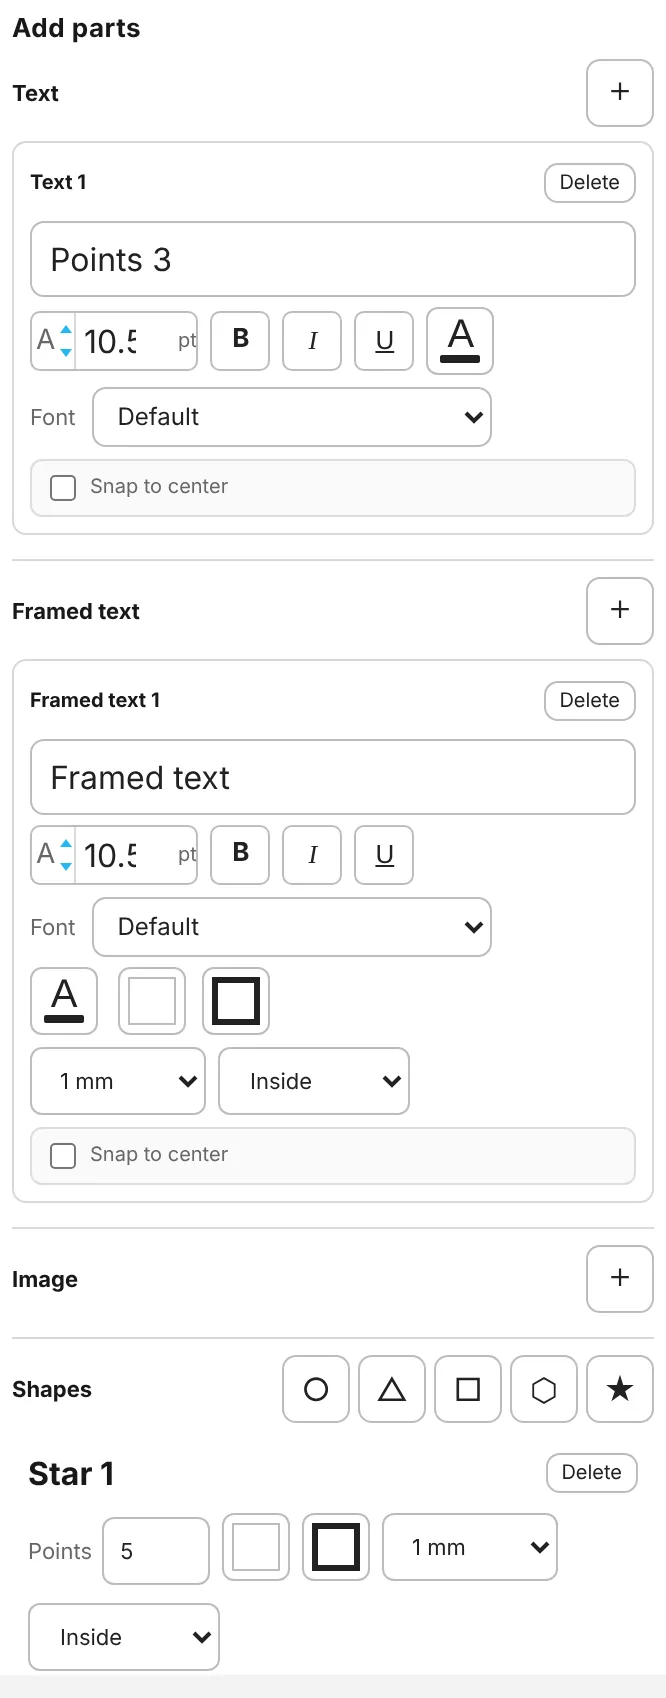
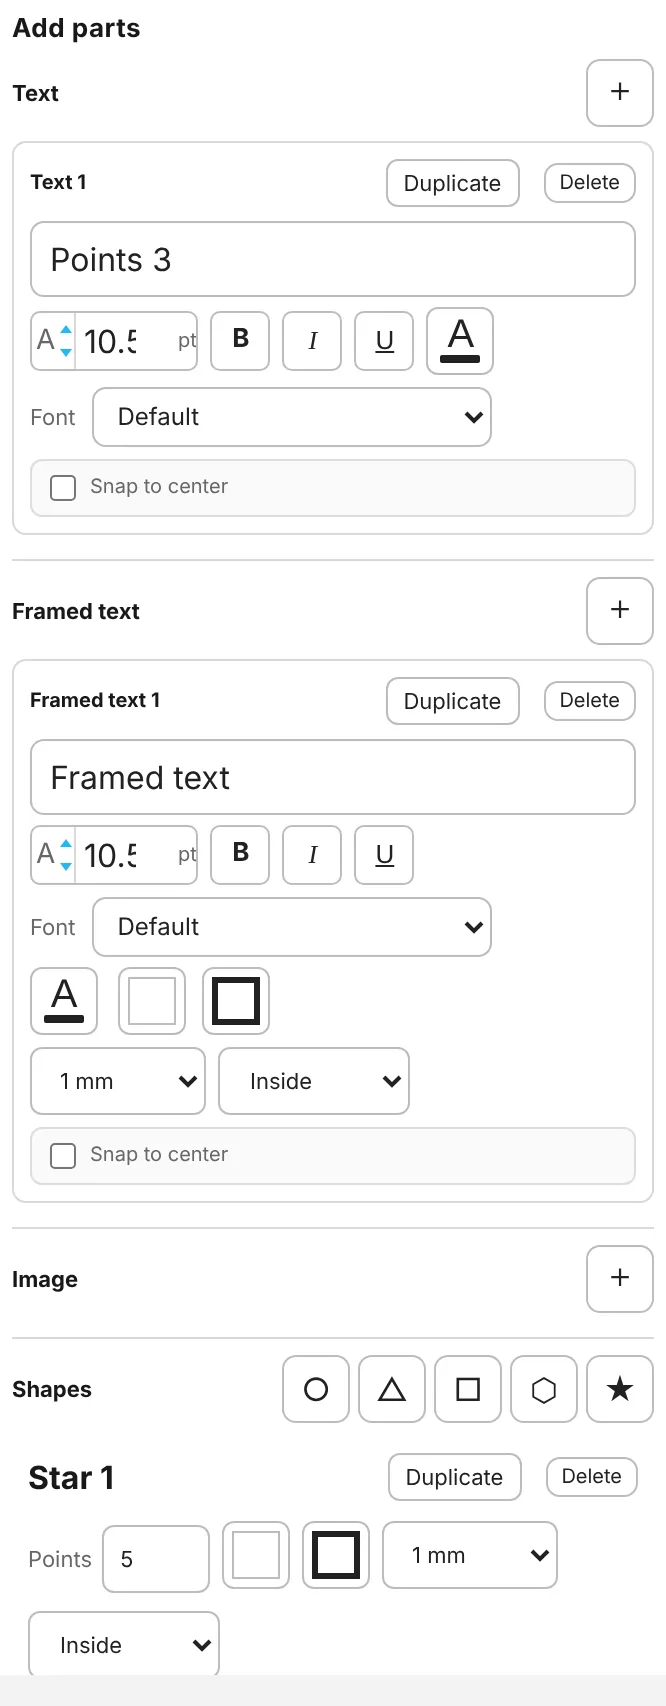
カードモックツクール(テスト版): パーツを種類ごとに12個まで・パーツの複製(パネル・スマホのボタン・⌘D)・スートに「なし」
Claude-Session: https://claude.ai/code/session_01MypZ6bnFd6NWuA9aApFgtm

diff --git a/card-mock-maker-next/guide/index.html b/card-mock-maker-next/guide/index.html
@@ -377,7 +377,7 @@
   <div class="tpl-card">
     <h3><span lang="ja">トランプ</span><span lang="en">Playing card</span></h3>
     <figure class="shot "><img style="max-width:330px" lang="ja" src="img/playing-panel-ja.webp?v=20261105" width="666" height="544" alt="トランプのパネル" loading="lazy" decoding="async"><img style="max-width:330px" lang="en" src="img/playing-panel-en.webp?v=20261105" width="666" height="538" alt="Playing card panel" loading="lazy" decoding="async"><figcaption><span lang="ja">トランプのパネル</span><span lang="en">Playing card panel</span></figcaption></figure>
-    <ul lang="ja"><li>数字は自由に入力（A・10・K など）。大きさ・太字・斜体・下線・色・フォントも変えられます。</li><li>スートは ●▲■★♥♠♦♣、大きさは 小・中・大、個数は ×1〜×5。</li><li>スートの種類を「画像」にすると、自分の画像をスートにできます。</li><li>配置：四つ角・上段のみ・右対角線・左対角線。</li></ul><ul lang="en"><li>Type any number or letter (A, 10, K…). Change its size, bold, italic, underline, colour and font.</li><li>Suits: ●▲■★♥♠♦♣; size S/M/L; count ×1–×5.</li><li>Set the suit style to Image to use your own picture as the suit.</li><li>Placement: Four corners, Top only, Diagonal (right) or Diagonal (left).</li></ul>
+    <ul lang="ja"><li>数字は自由に入力（A・10・K など）。大きさ・太字・斜体・下線・色・フォントも変えられます。</li><li>スートは ●▲■★♥♠♦♣ と「なし」（マークを出さない）。大きさは 小・中・大、個数は ×1〜×5。</li><li>スートの種類を「画像」にすると、自分の画像をスートにできます。</li><li>配置：四つ角・上段のみ・右対角線・左対角線。</li></ul><ul lang="en"><li>Type any number or letter (A, 10, K…). Change its size, bold, italic, underline, colour and font.</li><li>Suits: ●▲■★♥♠♦♣ or None (no mark); size S/M/L; count ×1–×5.</li><li>Set the suit style to Image to use your own picture as the suit.</li><li>Placement: Four corners, Top only, Diagonal (right) or Diagonal (left).</li></ul>
   </div>
   <div class="tpl-card">
     <h3><span lang="ja">トレカ</span><span lang="en">Trading card</span></h3>
@@ -401,20 +401,20 @@
   <figure class="shot "><img style="max-width:320px" lang="ja" src="img/options-card-ja.webp?v=20261105" width="436" height="588" alt="カードの上で、ドラッグで移動・右下の青い点で大きさを変える" loading="lazy" decoding="async"><img style="max-width:320px" lang="en" src="img/options-card-en.webp?v=20261105" width="436" height="588" alt="Drag to move; drag the blue dot at the bottom right to resize" loading="lazy" decoding="async"><figcaption><span lang="ja">カードの上で、ドラッグで移動・右下の青い点で大きさを変える</span><span lang="en">Drag to move; drag the blue dot at the bottom right to resize</span></figcaption></figure>
   <div>
     <dl class="defs" lang="ja">
-      <dt>文字</dt><dd>好きな位置に文字を置きます（1つの面に5つまで）。大きさ・太字・斜体・下線・色・フォント。</dd>
-      <dt>枠つき文字</dt><dd>枠のついた文字です（5つまで）。文字の色に加えて、枠の面色・線色・太さ・位置も選べます。</dd>
-      <dt>画像</dt><dd>ロゴやアイコンなどの画像を置きます（5つまで）。回転もできます。</dd>
-      <dt>図形</dt><dd>○ △ □ ⬡ ★ を置きます（10個まで）。多角形と星は頂点の数、面色・線色・太さを変えられます。</dd>
+      <dt>文字</dt><dd>好きな位置に文字を置きます（1つの面に12個まで）。大きさ・太字・斜体・下線・色・フォント。</dd>
+      <dt>枠つき文字</dt><dd>枠のついた文字です（12個まで）。文字の色に加えて、枠の面色・線色・太さ・位置も選べます。</dd>
+      <dt>画像</dt><dd>ロゴやアイコンなどの画像を置きます（12個まで）。回転もできます。</dd>
+      <dt>図形</dt><dd>○ △ □ ⬡ ★ を置きます（12個まで）。多角形と星は頂点の数、面色・線色・太さを変えられます。</dd>
     </dl>
     <dl class="defs" lang="en">
-      <dt>Text</dt><dd>Text anywhere on the card (up to 5 per face). Size, bold, italic, underline, colour, font.</dd>
-      <dt>Framed text</dt><dd>Text in a box (up to 5). Besides the text colour you can set the box fill, stroke, width and position.</dd>
-      <dt>Image</dt><dd>Place a logo, icon or other picture (up to 5). It can be rotated.</dd>
-      <dt>Shapes</dt><dd>○ △ □ ⬡ ★ (up to 10). Set the number of points for polygons and stars, plus fill, stroke and width.</dd>
+      <dt>Text</dt><dd>Text anywhere on the card (up to 12 per face). Size, bold, italic, underline, colour, font.</dd>
+      <dt>Framed text</dt><dd>Text in a box (up to 12). Besides the text colour you can set the box fill, stroke, width and position.</dd>
+      <dt>Image</dt><dd>Place a logo, icon or other picture (up to 12). It can be rotated.</dd>
+      <dt>Shapes</dt><dd>○ △ □ ⬡ ★ (up to 12). Set the number of points for polygons and stars, plus fill, stroke and width.</dd>
     </dl>
-    <ul lang="ja"><li>カードの上でドラッグすると動き、右下の青い点をドラッグすると大きさが変わります。</li><li>文字と枠つき文字は、ダブルクリックするとその場で書きかえられます。</li><li>「中央にスナップ」にチェックすると、カードの真ん中に吸いつきます。</li><li>いらなくなったら、パネルの各パーツの「削除」で消します。</li></ul><ul lang="en"><li>Drag a part on the card to move it; drag the blue dot at its bottom right to resize it.</li><li>Double-click text or framed text to rewrite it in place.</li><li>Tick “Snap to center” to make it stick to the middle of the card.</li><li>Remove a part with its “Delete” button in the panel.</li></ul>
+    <ul lang="ja"><li>カードの上でドラッグすると動き、右下の青い点をドラッグすると大きさが変わります。</li><li>文字と枠つき文字は、ダブルクリックするとその場で書きかえられます。</li><li>「中央にスナップ」にチェックすると、カードの真ん中に吸いつきます。</li><li>パネルの各パーツの「複製」で、同じ見た目のパーツを少しずらして増やせます。同じアイコンを並べたいときに便利です。いらなくなったら「削除」で消します。</li></ul><ul lang="en"><li>Drag a part on the card to move it; drag the blue dot at its bottom right to resize it.</li><li>Double-click text or framed text to rewrite it in place.</li><li>Tick “Snap to center” to make it stick to the middle of the card.</li><li>“Duplicate” on each part in the panel adds a copy slightly offset, handy for rows of the same icon. Remove a part with “Delete”.</li></ul>
   </div>
-  <figure class="shot "><img style="max-width:300px" lang="ja" src="img/options-panel-ja.webp?v=20261105" width="666" height="1706" alt="パーツのパネル" loading="lazy" decoding="async"><img style="max-width:300px" lang="en" src="img/options-panel-en.webp?v=20261105" width="666" height="1698" alt="The Parts panel" loading="lazy" decoding="async"><figcaption><span lang="ja">パーツのパネル</span><span lang="en">The Parts panel</span></figcaption></figure>
+  <figure class="shot "><img style="max-width:300px" lang="ja" src="img/options-panel-ja.webp?v=20261105" width="666" height="1710" alt="パーツのパネル" loading="lazy" decoding="async"><img style="max-width:300px" lang="en" src="img/options-panel-en.webp?v=20261105" width="666" height="1706" alt="The Parts panel" loading="lazy" decoding="async"><figcaption><span lang="ja">パーツのパネル</span><span lang="en">The Parts panel</span></figcaption></figure>
 </div>
 
 </section>
@@ -588,7 +588,7 @@
   <figure class="shot "><img style="max-width:240px" lang="ja" src="img/phone-parts-ja.webp?v=20261105" width="520" height="1125" alt="パーツに触れると、下にボタンが出る" loading="lazy" decoding="async"><img style="max-width:240px" lang="en" src="img/phone-parts-en.webp?v=20261105" width="520" height="1125" alt="Touch a part to get its buttons" loading="lazy" decoding="async"><figcaption><span lang="ja">パーツに触れると、下にボタンが出る</span><span lang="en">Touch a part to get its buttons</span></figcaption></figure>
   <figure class="shot "><img style="max-width:240px" lang="ja" src="img/phone-face-ja.webp?v=20261105" width="520" height="1125" alt="「面」を押したところ" loading="lazy" decoding="async"><img style="max-width:240px" lang="en" src="img/phone-face-en.webp?v=20261105" width="520" height="1125" alt="The Face tab" loading="lazy" decoding="async"><figcaption><span lang="ja">「面」を押したところ</span><span lang="en">The Face tab</span></figcaption></figure>
 </div>
-<ul lang="ja"><li>下のバーに<b class="ui">面</b>・<b class="ui">テンプレ</b>・<b class="ui">パーツ</b>・<b class="ui">用紙</b>・<b class="ui">メニュー</b>が並びます。パソコンの右のパネルと同じことができます。</li><li>選んだカードの文字をタップすると、画面の上に大きな入力欄が出ます。打った文字はすぐカードに映ります。</li><li>選んでいる面を画面いっぱいに大きく表示します。カードの下の「オモテ」「ウラ」で面を切り替えます。</li><li>カードを左右にスワイプすると、前後のカードへ移ります（← → でも移れます）。最後のカードで → を押すと、ページが増えます。</li><li>カードの上のパーツに触れると、下に「小さく」「大きく」「中央へ」「削除」が出ます。指でドラッグして動かし、右下の丸で大きさも変えられます。</li><li>パネルの上の取っ手を下に引くと閉じ、上に引くと画面いっぱいに広がります。数字の欄は − ＋ で変えられます。</li><li><b class="ui">ページ全体</b>で用紙全体を見られます。カードを押すと、そのカードの編集に戻ります。</li><li><b class="ui">用紙</b>では、用紙・カード・並べ方・タイトル・フォント・単位を変えます。</li><li>PDF保存・印刷・画像の書き出し・見本・表から一括作成・マイテンプレート・作品の一覧・ページの操作・言語は<b class="ui">メニュー</b>にあります。</li><li><b class="ui">メニュー</b>の<b class="ui">ホーム画面に追加</b>で、アプリのように開けます（iPhoneはSafariの共有ボタンから）。</li></ul><ul lang="en"><li>The bar at the bottom has <b class="ui">Face</b>, <b class="ui">Template</b>, <b class="ui">Parts</b>, <b class="ui">Paper</b> and <b class="ui">Menu</b>: the same as the panel on the right on a computer.</li><li>Tap text on the selected card and a large text field appears at the top; the card updates as you type.</li><li>The selected face is shown as large as the screen allows. Switch sides with Front / Back below the card.</li><li>Swipe the card left or right to move to the previous or next card (← → work too). Pressing → on the last card adds a page.</li><li>Touch a part on the card to get Smaller, Bigger, Center and Delete below it. Drag it with your finger, and resize it with the round handle at the bottom right.</li><li>Pull a panel’s handle down to close it, or up to expand it to full screen. Number fields have − and + buttons.</li><li><b class="ui">Whole page</b> shows the whole sheet. Tap a card to go back to editing it.</li><li><b class="ui">Paper</b> has the paper, card size, layout, title, font and units.</li><li>Save PDF, Print, Export images, the sample, Create from a table, My templates, My projects, page tools and language are in the <b class="ui">Menu</b>.</li><li><b class="ui">Add to Home Screen</b> in the <b class="ui">Menu</b> lets you open it like an app (on iPhone, use Safari’s Share button).</li></ul>
+<ul lang="ja"><li>下のバーに<b class="ui">面</b>・<b class="ui">テンプレ</b>・<b class="ui">パーツ</b>・<b class="ui">用紙</b>・<b class="ui">メニュー</b>が並びます。パソコンの右のパネルと同じことができます。</li><li>選んだカードの文字をタップすると、画面の上に大きな入力欄が出ます。打った文字はすぐカードに映ります。</li><li>選んでいる面を画面いっぱいに大きく表示します。カードの下の「オモテ」「ウラ」で面を切り替えます。</li><li>カードを左右にスワイプすると、前後のカードへ移ります（← → でも移れます）。最後のカードで → を押すと、ページが増えます。</li><li>カードの上のパーツに触れると、下に「小さく」「大きく」「中央へ」「複製」「削除」が出ます。指でドラッグして動かし、右下の丸で大きさも変えられます。</li><li>パネルの上の取っ手を下に引くと閉じ、上に引くと画面いっぱいに広がります。数字の欄は − ＋ で変えられます。</li><li><b class="ui">ページ全体</b>で用紙全体を見られます。カードを押すと、そのカードの編集に戻ります。</li><li><b class="ui">用紙</b>では、用紙・カード・並べ方・タイトル・フォント・単位を変えます。</li><li>PDF保存・印刷・画像の書き出し・見本・表から一括作成・マイテンプレート・作品の一覧・ページの操作・言語は<b class="ui">メニュー</b>にあります。</li><li><b class="ui">メニュー</b>の<b class="ui">ホーム画面に追加</b>で、アプリのように開けます（iPhoneはSafariの共有ボタンから）。</li></ul><ul lang="en"><li>The bar at the bottom has <b class="ui">Face</b>, <b class="ui">Template</b>, <b class="ui">Parts</b>, <b class="ui">Paper</b> and <b class="ui">Menu</b>: the same as the panel on the right on a computer.</li><li>Tap text on the selected card and a large text field appears at the top; the card updates as you type.</li><li>The selected face is shown as large as the screen allows. Switch sides with Front / Back below the card.</li><li>Swipe the card left or right to move to the previous or next card (← → work too). Pressing → on the last card adds a page.</li><li>Touch a part on the card to get Smaller, Bigger, Center, Duplicate and Delete below it. Drag it with your finger, and resize it with the round handle at the bottom right.</li><li>Pull a panel’s handle down to close it, or up to expand it to full screen. Number fields have − and + buttons.</li><li><b class="ui">Whole page</b> shows the whole sheet. Tap a card to go back to editing it.</li><li><b class="ui">Paper</b> has the paper, card size, layout, title, font and units.</li><li>Save PDF, Print, Export images, the sample, Create from a table, My templates, My projects, page tools and language are in the <b class="ui">Menu</b>.</li><li><b class="ui">Add to Home Screen</b> in the <b class="ui">Menu</b> lets you open it like an app (on iPhone, use Safari’s Share button).</li></ul>
 
 </section>
 <section class="g-sec" id="settings" aria-labelledby="settings-h">
@@ -627,6 +627,7 @@
     <tr><td>← → ↑ ↓</td><td><span lang="ja">となりのカードを選ぶ（はしまで行くと前後のページへ）</span><span lang="en">Select the neighbouring card (moves to the next/previous page at the ends)</span></td></tr>
     <tr><td>Enter</td><td><span lang="ja">選んだカードの文字を、その場で直す</span><span lang="en">Edit the selected card’s text in place</span></td></tr>
     <tr><td>Delete</td><td><span lang="ja">カードの上で最後に触ったパーツ（水色の枠）を消す</span><span lang="en">Delete the part you last clicked on the card (cyan outline)</span></td></tr>
+    <tr><td>⌘D / Ctrl+D</td><td><span lang="ja">そのパーツを複製する</span><span lang="en">Duplicate that part</span></td></tr>
     <tr><td>Esc</td><td><span lang="ja">パーツの選択をやめる・文字の入力を終える</span><span lang="en">Deselect the part / finish typing</span></td></tr>
     <tr><td>⌘C / Ctrl+C</td><td><span lang="ja">選んでいる面をコピー</span><span lang="en">Copy the selected face</span></td></tr>
     <tr><td>⌘V / Ctrl+V</td><td><span lang="ja">コピーした面を貼る（画像をコピーしているときは、その画像を貼る）</span><span lang="en">Paste the copied face (or the image, if you copied an image)</span></td></tr>

diff --git a/card-mock-maker-next/app.js b/card-mock-maker-next/app.js
@@ -591,6 +591,7 @@ function openColorPopup(input,anchor){
 function renderSwatches(){refreshOpenColorPopup()}
 
 function renderSuitHTML(d){
+  if(d.suitMode!=="image"&&!d.suit)return "";   // スート「なし」:マークを出さない(数字の位置はそのまま)
   const size=d.suitSize||"medium",count=clamp(Number(d.suitCount)||1,1,5);
   const one=()=>d.suitMode==="image"&&d.suitImage?`<img class="suit-img ${size}" src="${d.suitImage}" alt="">`:`<span class="suit-text ${size}">${esc(d.suit||"")}</span>`;
   return `<span class="suit-stack">${Array.from({length:count},one).join("")}</span>`;
@@ -1354,15 +1355,17 @@ function renderTextBoxEditors(d){
     refreshColorTrigger(color);
   });
 
-  el("addTextBox").disabled=items.length>=5;
+  el("addTextBox").disabled=items.length>=PART_LIMIT;addDupButtons(list,"tb",items);
 }
 
 function renderOptionImageEditors(d){
   const list=el("optionImageList"),items=ensureOptionImages(d);list.innerHTML="";
   items.forEach((item,index)=>{const wrap=document.createElement("div");wrap.className="option-image-editor";wrap.innerHTML=`<div class="option-image-editor-head"><strong>画像${index+1}</strong><button type="button" class="textbox-delete">削除</button></div><div class="option-image-row"><img src="${item.src}" alt=""><label>回転 <input class="option-image-angle" type="number" min="-180" max="180" value="${Number(item.rotation)||0}">°</label></div><label class="checkline" style="margin:6px 0 0"><input class="oi-center" type="checkbox" ${item.centerSnap?"checked":""}>中央にスナップ</label>`;const angle=wrap.querySelector(".option-image-angle"),center=wrap.querySelector(".oi-center"),del=wrap.querySelector(".textbox-delete");angle.oninput=()=>{item.rotation=Number(angle.value)||0;renderSheet()};center.onchange=()=>{item.centerSnap=center.checked;renderSheet()};del.onclick=()=>{items.splice(index,1);renderSheet();syncControls()};list.appendChild(wrap)});el("addOptionImage").disabled=items.length>=5
+;addDupButtons(list,"img",items);
 }
 
-function renderShapeEditors(d){const list=el('shapeList'),items=ensureShapes(d);list.innerHTML='';items.forEach((item,i)=>{const w=document.createElement('div');w.className='shape-editor';const names={circle:'円',triangle:'三角形',rect:'四角形',polygon:'多角形',star:'星'};w.innerHTML=`<div class="shape-editor-head"><strong>${names[item.type]||'図形'}${i+1}</strong><button class="textbox-delete" type="button">削除</button></div><div class="shape-editor-row">${['polygon','star'].includes(item.type)?`<label>頂点 <input class="shape-points" type="number" min="${item.type==='star'?4:3}" max="12" value="${item.points||5}" style="width:54px"></label>`:''}<div class="tool-color fill-color" title="面色"><input class="shape-fill" type="color" value="${item.fillColor||'#fff'}"></div><div class="tool-color stroke-color" title="線色"><input class="shape-stroke" type="color" value="${item.borderColor||'#222'}"></div><select class="shape-width stroke-width-select"><option value="0.5">0.5 mm</option><option value="0.75">0.75 mm</option><option value="1">1 mm</option><option value="2">2 mm</option><option value="3">3 mm</option></select><select class="shape-align stroke-align-select"><option value="inside">内側</option><option value="center">中央</option><option value="outside">外側</option></select></div>`;const pts=w.querySelector('.shape-points'),fill=w.querySelector('.shape-fill'),stroke=w.querySelector('.shape-stroke'),width=w.querySelector('.shape-width'),align=w.querySelector('.shape-align');width.value=String(item.borderWidth||1);align.value=item.borderAlign||'inside';if(pts)pts.oninput=()=>{item.points=clamp(Number(pts.value)||5,item.type==='star'?4:3,12);renderSheet()};fill.dataset.none=item.fillNone?'1':'0';stroke.dataset.none=item.borderNone?'1':'0';fill.oninput=()=>{item.fillColor=fill.value;item.fillNone=false;renderSheet()};stroke.oninput=()=>{item.borderColor=stroke.value;item.borderNone=false;renderSheet()};fill.addEventListener('colornone',()=>{item.fillNone=true;renderSheet()});stroke.addEventListener('colornone',()=>{item.borderNone=true;renderSheet()});width.onchange=()=>{item.borderWidth=Number(width.value)||1;renderSheet()};align.onchange=()=>{item.borderAlign=align.value;renderSheet()};w.querySelector('.textbox-delete').onclick=()=>{items.splice(i,1);renderSheet();syncControls()};list.appendChild(w);[fill,stroke].forEach(setupColorInput)})}
+function renderShapeEditors(d){const list=el('shapeList'),items=ensureShapes(d);list.innerHTML='';items.forEach((item,i)=>{const w=document.createElement('div');w.className='shape-editor';const names={circle:'円',triangle:'三角形',rect:'四角形',polygon:'多角形',star:'星'};w.innerHTML=`<div class="shape-editor-head"><strong>${names[item.type]||'図形'}${i+1}</strong><button class="textbox-delete" type="button">削除</button></div><div class="shape-editor-row">${['polygon','star'].includes(item.type)?`<label>頂点 <input class="shape-points" type="number" min="${item.type==='star'?4:3}" max="12" value="${item.points||5}" style="width:54px"></label>`:''}<div class="tool-color fill-color" title="面色"><input class="shape-fill" type="color" value="${item.fillColor||'#fff'}"></div><div class="tool-color stroke-color" title="線色"><input class="shape-stroke" type="color" value="${item.borderColor||'#222'}"></div><select class="shape-width stroke-width-select"><option value="0.5">0.5 mm</option><option value="0.75">0.75 mm</option><option value="1">1 mm</option><option value="2">2 mm</option><option value="3">3 mm</option></select><select class="shape-align stroke-align-select"><option value="inside">内側</option><option value="center">中央</option><option value="outside">外側</option></select></div>`;const pts=w.querySelector('.shape-points'),fill=w.querySelector('.shape-fill'),stroke=w.querySelector('.shape-stroke'),width=w.querySelector('.shape-width'),align=w.querySelector('.shape-align');width.value=String(item.borderWidth||1);align.value=item.borderAlign||'inside';if(pts)pts.oninput=()=>{item.points=clamp(Number(pts.value)||5,item.type==='star'?4:3,12);renderSheet()};fill.dataset.none=item.fillNone?'1':'0';stroke.dataset.none=item.borderNone?'1':'0';fill.oninput=()=>{item.fillColor=fill.value;item.fillNone=false;renderSheet()};stroke.oninput=()=>{item.borderColor=stroke.value;item.borderNone=false;renderSheet()};fill.addEventListener('colornone',()=>{item.fillNone=true;renderSheet()});stroke.addEventListener('colornone',()=>{item.borderNone=true;renderSheet()});width.onchange=()=>{item.borderWidth=Number(width.value)||1;renderSheet()};align.onchange=()=>{item.borderAlign=align.value;renderSheet()};w.querySelector('.textbox-delete').onclick=()=>{items.splice(i,1);renderSheet();syncControls()};list.appendChild(w);[fill,stroke].forEach(setupColorInput)});addDupButtons(list,"shape",items);
+}
 
 function renderFrameTextEditors(d){
   const list=el("frameTextList"),items=ensureFrameTexts(d);list.innerHTML="";
@@ -1405,7 +1408,7 @@ function renderFrameTextEditors(d){
     del.onclick=()=>{items.splice(index,1);renderSheet();syncControls()};
     list.appendChild(wrap);[tc,bc,fc].forEach(x=>{setupColorInput(x);refreshColorTrigger(x)});
   });
-  el("addFrameText").disabled=items.length>=5;
+  el("addFrameText").disabled=items.length>=PART_LIMIT;addDupButtons(list,"ft",items);
 }
 
 function syncControls(){
@@ -1438,7 +1441,7 @@ function syncControls(){
     el("tplSectionTitle").textContent=T(TPL_SECTION_TITLES[d.template||"playing"]||"テンプレート");
     if((d.template||"playing")==="playing"){
       el("playingControls").classList.remove("hidden");
-      el("numInput").value=d.number??"";el("suitInput").value=d.suit??"●";
+      el("numInput").value=d.number??"";el("suitInput").value=d.suit??"●";if(el("suitInput").selectedIndex<0)el("suitInput").value="●";
       el("playingNumberColor").value=d.numberColor||d.color||"#d94a4a";el("playingNumberColor").dataset.none=d.numberColorNone?"1":"0";
       el("suitSize").value=d.suitSize||"medium";
       el("suitCount").value=String(d.suitCount||1);
@@ -1658,6 +1661,7 @@ el("partBar")?.addEventListener("click",e=>{
   const b=e.target.closest("[data-act]");if(!b)return;const act=b.dataset.act;
   if(act==="done"){activePart=null;markActivePart();return}
   if(act==="delete"){deleteActivePart();return}
+  if(act==="dup"){const a=activePart;if(!a)return;const i=a.part.indexOf(":");duplicatePart(a.part.slice(0,i),a.part.slice(i+1));return}
   const item=activePartItem();if(!item)return;const o=item.box||{x:20,y:20,w:60,h:14};
   if(act==="center")item.box={...o,x:50-o.w/2};
   else{
@@ -1697,8 +1701,31 @@ document.addEventListener("keydown",e=>{
   if(!mod&&e.key==="Enter"){const n=document.querySelector("#sheetGrid .face.selected [data-edit]");if(n){e.preventDefault();startInlineEdit(n)}return}
   if(!mod&&(e.key==="Delete"||e.key==="Backspace")){if(deleteActivePart())e.preventDefault();return}
   if(e.key==="Escape"&&activePart){activePart=null;markActivePart();return}
+  if(mod&&!e.shiftKey&&e.key.toLowerCase()==="d"&&activePart){e.preventDefault();const a=activePart,i=a.part.indexOf(":");duplicatePart(a.part.slice(0,i),a.part.slice(i+1));return}
   if(mod&&!e.shiftKey&&e.key.toLowerCase()==="c"&&getSelection().isCollapsed){e.preventDefault();el("copyFace").click();showAppToast(T("この面をコピーしました。ほかの面を選んで ⌘V / Ctrl+V で貼れます。"),{duration:3500})}
 });
+
+/* ---- パーツの複製:同じアイコンを並べたいときなどに。1つの面に置けるパーツは種類ごとに12個まで ---- */
+const PART_LIMIT=12;
+const PART_LISTS={tb:d=>ensureTextBoxes(d),ft:d=>ensureFrameTexts(d),img:d=>ensureOptionImages(d),shape:d=>ensureShapes(d)};
+const PART_PREFIX={tb:"tb_",ft:"ft_",img:"oi_",shape:"sh_"};
+function partLimitToast(){showAppToast(T("パーツは種類ごとに、1つの面に{n}個まで置けます。",{n:PART_LIMIT}),{duration:3500})}
+function duplicatePart(kind,id){
+  const d=currentFaces()[selected],list=PART_LISTS[kind]?.(d);if(!list)return false;
+  if(list.length>=PART_LIMIT){partLimitToast();return false}
+  const i=list.findIndex(x=>x.id===id);if(i<0)return false;
+  const c=JSON.parse(JSON.stringify(list[i]));c.id=PART_PREFIX[kind]+Date.now()+"_"+Math.random().toString(36).slice(2,7);
+  if(c.box){const b=c.box;c.box={...b,x:b.x+4<=100-b.w?b.x+4:Math.max(0,b.x-4),y:b.y+4<=100-b.h?b.y+4:Math.max(0,b.y-4)}}   // 少しずらして重ねる
+  list.splice(i+1,0,c);activePart={page:currentPage,idx:selected,part:kind+":"+c.id};
+  renderSheet();syncControls();return true;
+}
+function addDupButtons(list,kind,items){
+  [...list.children].forEach((w,i)=>{
+    const item=items[i],del=w.querySelector(".textbox-delete");if(!item||!del||w.querySelector(".part-dup"))return;
+    const b=document.createElement("button");b.type="button";b.className="part-dup";b.textContent=T("複製");b.disabled=items.length>=PART_LIMIT;
+    b.addEventListener("click",()=>duplicatePart(kind,item.id));del.parentNode.insertBefore(b,del);
+  });
+}
 
 /* 画像をカードに置く:TCGの中段は中段の画像、画像の面と無地は面の画像、それ以外は背景 */
 function placeImageOnFace(idx,src,zone){
@@ -1901,6 +1928,7 @@ el("templateType").addEventListener("change",e=>{
 });
 
 ["numInput","suitInput","suitSize","suitCount","suitMode","cornerPlacement"].forEach(id=>el(id).addEventListener("input",()=>{
+  if(id==="suitInput"&&el("suitInput").value==="")el("suitMode").value="text";   // 「なし」を選んだら、画像のスートもやめる
   updateSelected({
     number:el("numInput").value,
     suit:el("suitInput").value,
@@ -1942,11 +1970,11 @@ el("wordMainColor").addEventListener("input",()=>{const c=el("wordMainColor").va
 
 
 
-el("addTextBox").addEventListener("click",()=>{const d=currentFaces()[selected],items=ensureTextBoxes(d);if(items.length>=5)return;items.push(makeTextBox(items.length));renderSheet();syncControls()});
-el("addFrameText").addEventListener("click",()=>{const d=currentFaces()[selected],items=ensureFrameTexts(d);if(items.length>=5)return;items.push(makeFrameText(items.length));renderSheet();syncControls()});
-document.querySelectorAll(".add-shape").forEach(b=>b.addEventListener("click",()=>{const d=currentFaces()[selected],items=ensureShapes(d);if(items.length>=10)return;items.push(makeShape(b.dataset.shape,items.length));renderSheet();syncControls()}));
-el("addOptionImage").addEventListener("click",()=>{if(ensureOptionImages(currentFaces()[selected]).length>=5)return;el("optionImageInput").click()});
-onImagePicked(el("optionImageInput"),src=>{const items=ensureOptionImages(currentFaces()[selected]);if(items.length<5)items.push(makeOptionImage(src,items.length));renderSheet();syncControls()});
+el("addTextBox").addEventListener("click",()=>{const d=currentFaces()[selected],items=ensureTextBoxes(d);if(items.length>=PART_LIMIT)return;items.push(makeTextBox(items.length));renderSheet();syncControls()});
+el("addFrameText").addEventListener("click",()=>{const d=currentFaces()[selected],items=ensureFrameTexts(d);if(items.length>=PART_LIMIT)return;items.push(makeFrameText(items.length));renderSheet();syncControls()});
+document.querySelectorAll(".add-shape").forEach(b=>b.addEventListener("click",()=>{const d=currentFaces()[selected],items=ensureShapes(d);if(items.length>=PART_LIMIT){partLimitToast();return}items.push(makeShape(b.dataset.shape,items.length));renderSheet();syncControls()}));
+el("addOptionImage").addEventListener("click",()=>{if(ensureOptionImages(currentFaces()[selected]).length>=PART_LIMIT){partLimitToast();return}el("optionImageInput").click()});
+onImagePicked(el("optionImageInput"),src=>{const items=ensureOptionImages(currentFaces()[selected]);if(items.length<PART_LIMIT)items.push(makeOptionImage(src,items.length));renderSheet();syncControls()});
 
 onImagePicked(el("imageInput"),src=>{
   setFaceAt(currentPage,selected,{type:"image",src,...keepCommon(currentFaces()[selected])});renderSheet();
@@ -2054,7 +2082,7 @@ function bulkFields(card){
     const f=card&&card[side];if(!f)return;
     const add=(kind,name,n,set,get)=>out.push({side,kind,name,n,set,get});
     if(f.type==="template"){
-      if(f.template==="playing"){add("number","数字",0,(d,v)=>{d.number=v},d=>d.number);add("suit","スート",0,(d,v)=>{d.suit=v},d=>d.suit)}
+      if(f.template==="playing"){add("number","数字",0,(d,v)=>{d.number=v},d=>d.number);add("suit","スート",0,(d,v)=>{d.suit=/^(なし|無し|none|-|ー|—)$/i.test(String(v).trim())?"":v},d=>d.suit||T("なし"))}
       else if(f.template==="tcg"){add("name","カード名",0,(d,v)=>{d.name=v},d=>d.name);add("desc","テキスト",0,(d,v)=>{d.desc=v},d=>d.desc)}
       else if(f.template==="word")add("main","ことば",0,(d,v)=>{d.main=v},d=>d.main);
     }

diff --git a/card-mock-maker-next/i18n.js b/card-mock-maker-next/i18n.js
@@ -21,7 +21,7 @@ const EN={
   "下の「面」「テンプレ」から作りはじめます。":"Start from “Face” or “Template” below.",
   "見本を開く":"Open sample","見本":"Sample",
   // ---- スマホ
-  "スマホ用ツールバー":"Phone toolbar","面":"Face","テンプレ":"Template","オプション":"Options","パーツ":"Parts","完了":"Done","小さく":"Smaller","大きく":"Bigger","中央へ":"Center","パーツの選択をやめる":"Deselect part","ホーム画面に追加":"Add to Home Screen","ホーム画面に追加しました。":"Added to your home screen.",
+  "スマホ用ツールバー":"Phone toolbar","面":"Face","テンプレ":"Template","オプション":"Options","パーツ":"Parts","完了":"Done","パーツは種類ごとに、1つの面に{n}個まで置けます。":"Each face can hold up to {n} parts of each kind.","小さく":"Smaller","大きく":"Bigger","中央へ":"Center","パーツの選択をやめる":"Deselect part","ホーム画面に追加":"Add to Home Screen","ホーム画面に追加しました。":"Added to your home screen.",
   "Safariの共有ボタン(□に↑)から「ホーム画面に追加」を選んでください。":"In Safari, tap the Share button (□ with ↑) and choose “Add to Home Screen”.","コピーした面を貼りました。":"Pasted the copied face.","この面をコピーしました。ほかの面を選んで ⌘V / Ctrl+V で貼れます。":"Copied this face. Select another face and press ⌘V / Ctrl+V to paste it.","大きさ":"Size","左右":"Left–right","上下":"Up–down","元に戻す":"Reset","カードの上でドラッグしても動かせます":"You can also drag it on the card","はみ出す文字は自動で小さくする":"Shrink text that doesn't fit","自動で小さくする":"Shrink automatically",
   "文字が枠からはみ出しています(赤い点線)。文字を減らすか小さくするか、「自動で小さくする」をオンにしてください。":"Some text doesn't fit its box (red dotted line). Shorten it, make it smaller, or turn on “Shrink automatically”.",
   "文字が枠に入りきりません(赤い点線)。文字を減らすか、枠を大きくしてください。":"Some text still doesn't fit (red dotted line). Shorten it or make the box bigger.","パーツを足す":"Add parts","選んでいるカード":"Selected card","並べ方":"Layout","背景とふち":"Background & border","コピー・テンプレート保存":"Copy & save as template",

diff --git a/card-mock-maker-next/index.html b/card-mock-maker-next/index.html
@@ -321,7 +321,7 @@
         </div>
         <div id="mobileCardPair" class="mobile-card-pair"></div>
         <div id="mobileSheetView" class="m-sheet-view" hidden></div>
-        <div id="partBar" class="part-bar" role="toolbar" aria-label="パーツ" hidden><button type="button" data-act="smaller">小さく</button><button type="button" data-act="bigger">大きく</button><button type="button" data-act="center">中央へ</button><button type="button" data-act="delete" class="part-del">削除</button><button type="button" data-act="done" class="part-done" aria-label="パーツの選択をやめる">✓</button></div>
+        <div id="partBar" class="part-bar" role="toolbar" aria-label="パーツ" hidden><button type="button" data-act="smaller">小さく</button><button type="button" data-act="bigger">大きく</button><button type="button" data-act="center">中央へ</button><button type="button" data-act="dup">複製</button><button type="button" data-act="delete" class="part-del">削除</button><button type="button" data-act="done" class="part-done" aria-label="パーツの選択をやめる">✓</button></div>
         <div class="mobile-face-labels m-side-seg" role="group" aria-label="オモテ・ウラ"><button type="button" data-side="0" aria-pressed="true">オモテ</button><button type="button" data-side="1" aria-pressed="false">ウラ</button></div>
       </section>
     </div>
@@ -391,6 +391,7 @@
         <select id="suitInput" class="tool-symbol-select" aria-label="スート" title="スート">
           <option>●</option><option>▲</option><option>■</option><option>★</option>
           <option>♥</option><option>♠</option><option>♦</option><option>♣</option>
+          <option value="">なし</option>
         </select>
         <select id="suitSize" class="tool-small-select" aria-label="スートサイズ" title="スートサイズ">
           <option value="small">小</option><option value="medium" selected>中</option><option value="large">大</option>

diff --git a/card-mock-maker-next/app.css b/card-mock-maker-next/app.css
@@ -2442,3 +2442,8 @@ button,select,label,summary,input,[role=button],.file-btn,.swatch{touch-action:m
   .mobile-card-nav{grid-template-columns:44px minmax(0,1fr) 44px!important;height:44px!important;min-height:44px!important}
   .mobile-card-nav button:not(.m-view-toggle){width:44px!important;min-width:44px!important;height:44px!important}
 }
+
+/* ---- パーツの複製ボタン ---- */
+.part-dup{margin-left:auto;margin-right:6px;font-size:11px;padding:2px 8px;min-height:24px;border-radius:6px}
+.textbox-editor-head,.option-image-editor-head,.shape-editor-head,.frame-editor-head{display:flex;align-items:center;gap:6px}
+@media(max-width:720px){.part-bar{gap:4px;padding:0 8px}.part-bar button{padding:0 4px;font-size:13.5px}.mobile-panel-body .part-dup{min-height:42px;font-size:13px;padding:0 12px}}
